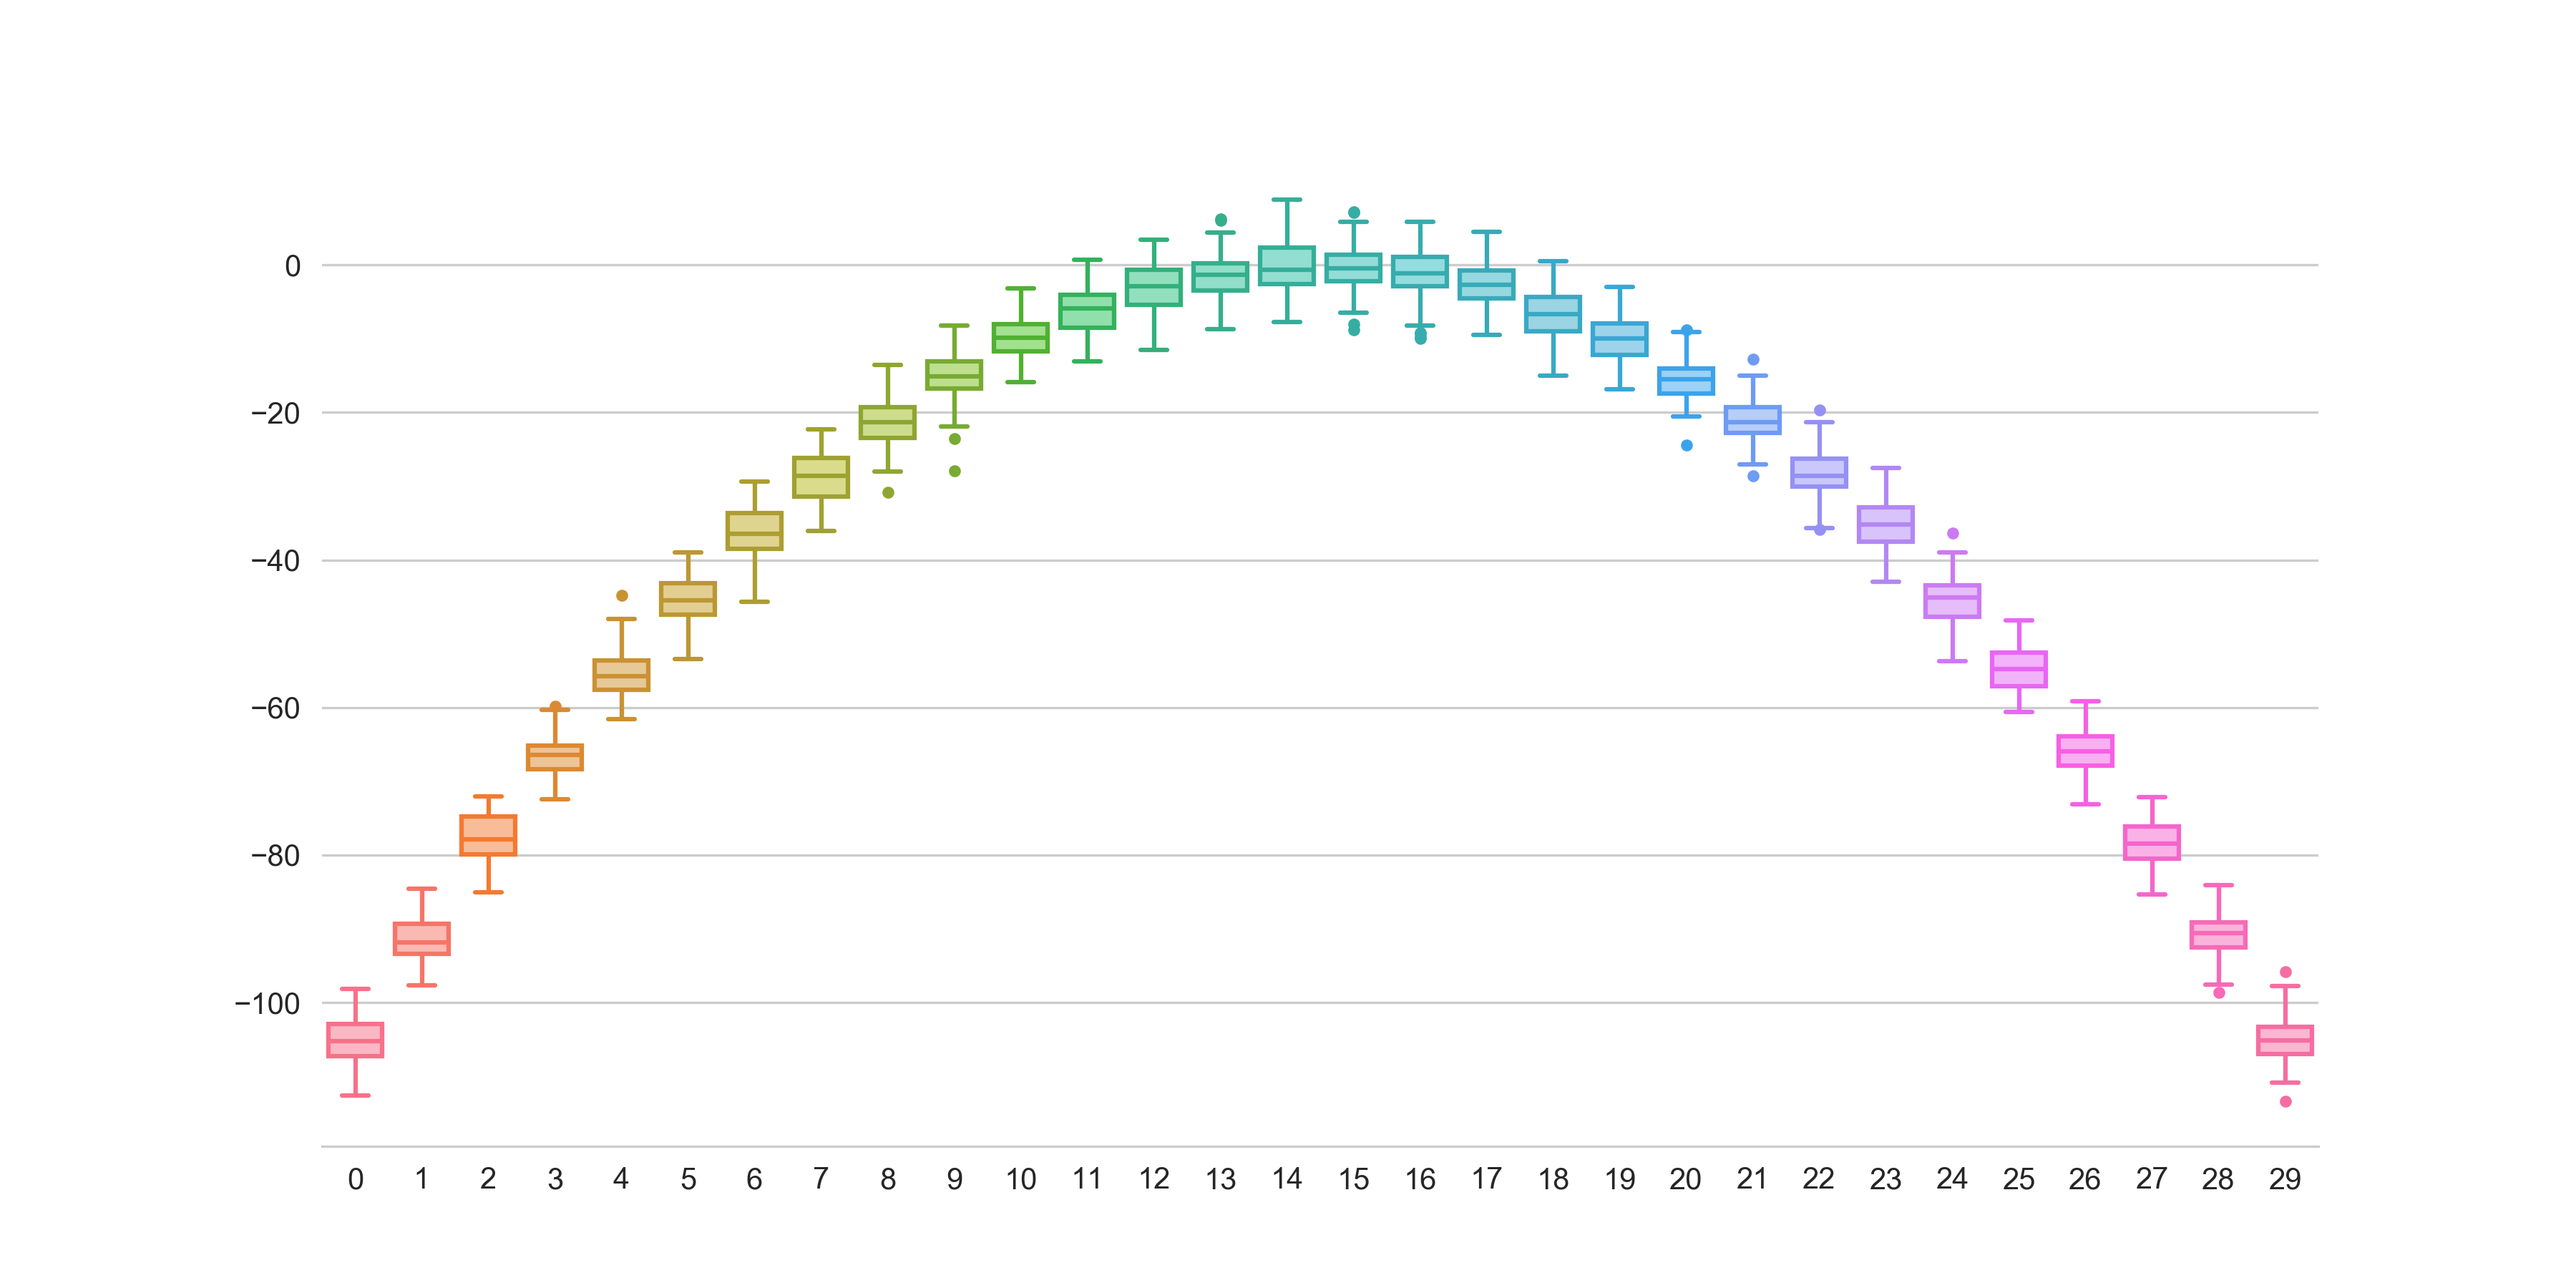
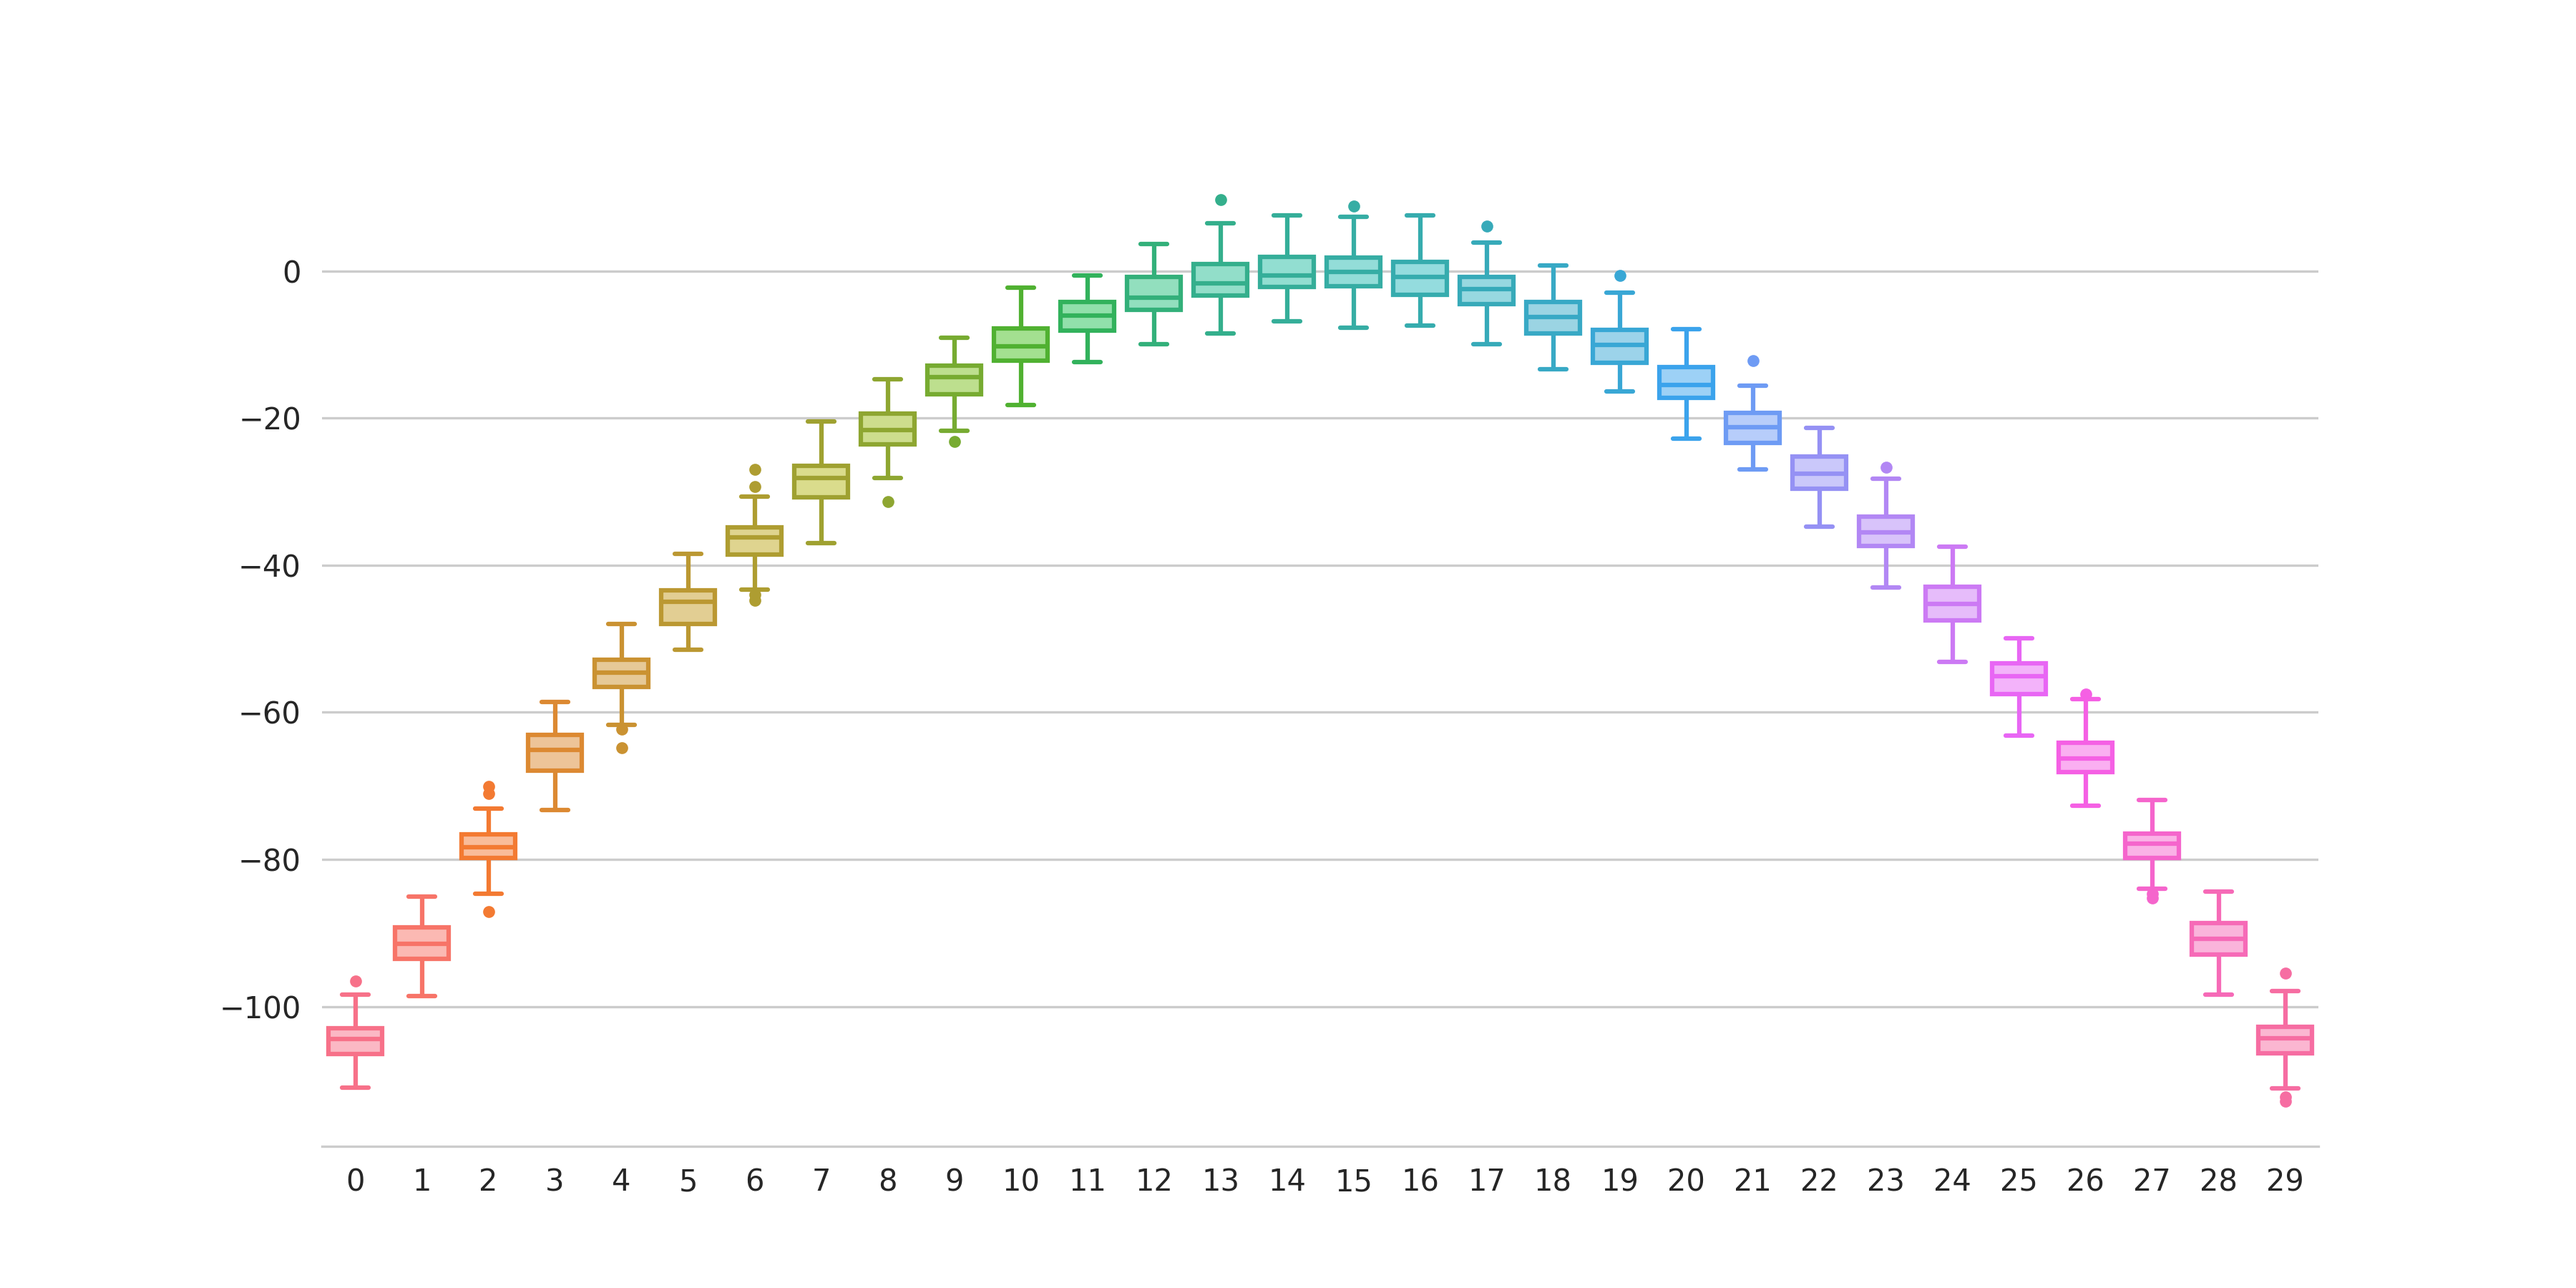
feat: updated rainbow boxplot

diff --git a/rainbow_boxplot.py b/rainbow_boxplot.py
@@ -1,31 +1,23 @@
-import numpy as np
+import colorsys
+import matplotlib.colors as mc
+import matplotlib.pyplot as plt
 import pandas as pd
 import seaborn as sns
-import matplotlib.pyplot as plt
-import matplotlib.colors as mc
-import colorsys
 
 
-def rand_data(num_classes,num_samples,std):
-    # Create a placeholder vector
-    data = np.empty((0,num_samples))
-    # Create num_classes samples
-    for i in range(num_classes):
-        # Choose mean by quadratic function
-        x = i-(num_classes*0.5)+0.5
-        # Create one sample with std and num_samples points
-        sample=np.random.normal(loc=-0.5*x*x,scale=std,size=(1,num_samples))
-        # Append to placeholder
-        data = np.append(data,sample,axis=0)
-    # Transpose (for seaborne visualisation)
-    data = data.T
-    # Save as pandas dataframe
-    df = pd.DataFrame(data)
-    return df
+def lighten_color(
+    color: str | tuple, amount: float = 0.5
+) -> tuple[float, float, float]:
+    """
+     Lightens the given color by multiplying (1-luminosity) by the given amount.
 
+    Args:
+        color (str or tuple): Matplotlib color string, hex string, or RGB tuple.
+        amount (float): Factor by which to lighten the color. 0 returns black, 1 returns the original color.
 
-# Take a RGB color and lighten it by a given factor
-def lighten_color(color, amount=0.5):
+    Returns:
+        tuple: Lightened RGB color tuple.
+    """
     try:
         c = mc.cnames[color]
     except:
@@ -36,39 +28,59 @@ def lighten_color(color, amount=0.5):
     return colorsys.hls_to_rgb(c[0], 1 - amount * (1 - c[1]), c[2])
 
 
-if __name__ == "__main__":
-    
-    data = rand_data(30,100,3)  # Create random data in shape of a rainbow
+def rainbow_boxplot(data: pd.DataFrame, filename: str, dpi: int = 300):
+    """
+    Creates a rainbow-colored boxplot from the given data.
+
+    Args:
+        data (DataFrame): Pandas DataFrame containing the data to plot.
+        filename (str): The filename to save the plot to.
+        dpi (int): The resolution in dots per inch for the saved figure.
+    """
 
     # Define outlier properties
-    flierprops = dict(marker='o', markersize=3)
+    flierprops = dict(marker="o", markersize=3)
     # Set the style to only horizontal lines
     sns.set_style("whitegrid")
     # Set up the figure
-    fig, ax = plt.subplots(figsize=(12,6))
+    fig, ax = plt.subplots(figsize=(12, 6))
     # Delete the frame of the figure
-    sns.despine(left=True,ax=ax)
+    sns.despine(left=True, ax=ax)
 
     sns.boxplot(palette="husl", data=data, saturation=1, flierprops=flierprops, ax=ax)
 
-    for i,artist in enumerate(ax.artists):
-        # Get the fill color
-        col_edge = lighten_color(artist.get_facecolor(), 1.0)
+    # Prefer patches (Rectangle boxes). If empty, fall back to artists for older Matplotlib versions.
+    containers = ax.patches if len(ax.patches) else ax.artists
+
+    for i, artist in enumerate(containers):
+        # Get the fill color (use only RGB part if RGBA is returned)
+        face = artist.get_facecolor()
+        if hasattr(face, "__len__") and len(face) >= 3:
+            face_rgb = tuple(face[:3])
+        else:
+            face_rgb = face
+
+        col_edge = lighten_color(face_rgb, 1.0)
         # Set edge color to the fill color
         artist.set_edgecolor(col_edge)
-        # Lighten the fill color by a faktor of 0.5 and set it
-        col_face = lighten_color(artist.get_facecolor(), 0.5)
+        # Set edge linewidth for the box/patch
+        try:
+            artist.set_linewidth(1.5)
+        except Exception:
+            # Not all artist types expose set_linewidth; ignore if unavailable
+            pass
+
+        # Lighten the fill color by a factor of 0.5 and set it
+        col_face = lighten_color(face_rgb, 0.5)
         artist.set_facecolor(col_face)
-        #artist.set_facecolor((1,1,1))  # delete fill
 
         # Each box has 6 associated Line2D objects (to make the whiskers, fliers, etc.)
         # Loop over them here, and use the same colour as above
-        for j in range(i*6,i*6+6):
+        for j in range(i * 6, i * 6 + 6):
             line = ax.lines[j]
             line.set_color(col_edge)
             line.set_mfc(col_edge)
             line.set_mec(col_edge)
             line.set_linewidth(1.5)
-    plt.savefig("rainbow.png", dpi=300)
-    plt.show()
 
+    plt.savefig(filename, dpi=dpi)

diff --git a/plot.py b/plot.py
@@ -1,45 +1,3 @@
-# plot-utils
-
-Utility functions for creating special plots.
-
-## GPS-Plot
-
-Plot a map from one or more `.gpx` files using `gpxpy` and `tilemapbase`.
-
-### Example
-
-Code:
-
-```python
-from gps_plot import gps_plot, load_gps_data
-
-paths = [
-    "./gpx/activity_1.gpx",
-    "./gpx/activity_2.gpx",
-    "./gpx/activity_3.gpx"
-]
-
-coordinates = load_gps_data(paths)
-
-gps_plot(coordinates, "./img/gps_plot.png")
-```
-
-Result:
-
-<p align="center">
-  <img src="img/gps_plot.png" width="50%" />
-</p>
-
-
-## Rainbow Boxplot
-
-Make a custom boxplot in rainbow color scheme.
-
-### Example
-
-Code:
-
-```python
 import numpy as np
 import pandas as pd
 from rainbow_boxplot import rainbow_boxplot
@@ -67,10 +25,3 @@ if __name__ == "__main__":
 
     data = rand_data(30, 100, 3)  # Create random data in shape of a rainbow
     rainbow_boxplot(data, "./img/rainbow_boxplot.png")  # Create rainbow boxplot
-```
-
-Result:
-
-<p align="center">
-  <img src="img/rainbow_boxplot.png" width="80%" />
-</p>
